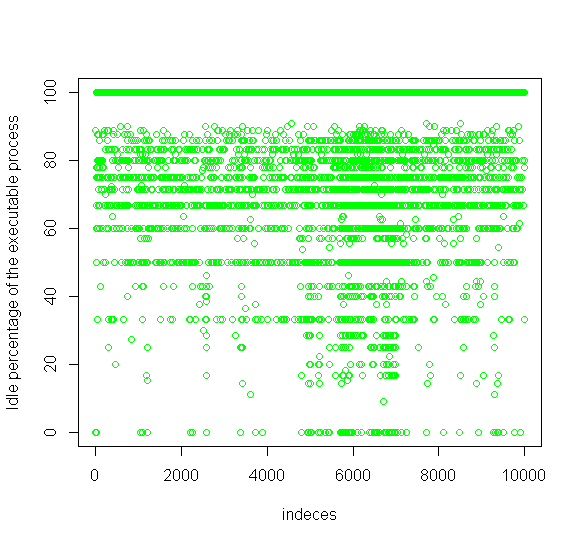
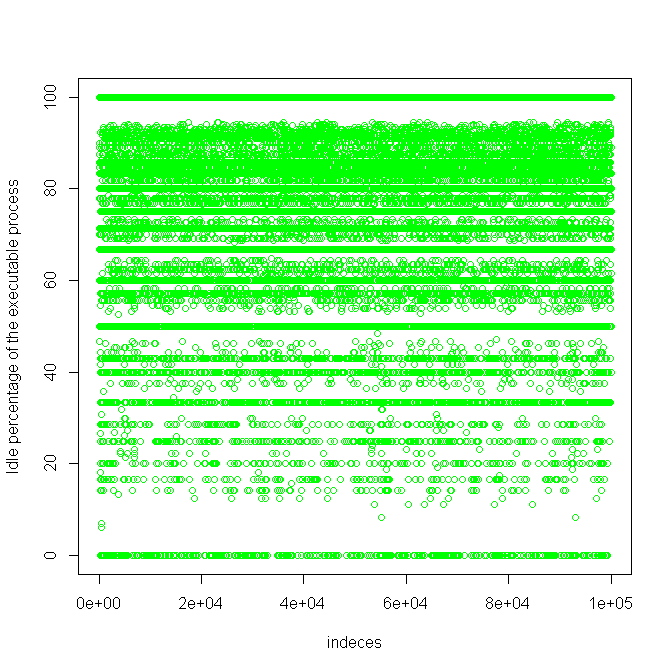
Add files via upload

diff --git a/LaTeX code/main.tex b/LaTeX code/main.tex
@@ -205,19 +205,19 @@
 \newpage
 
 \section{Υπολογιστική ισχύς.}
-Κατά την εκτέλεση του πειράματος παρατηρήθηκε και η συμπεριφορά του προγράμματα αναφορικά με την υπολογιστική ισχύ που καταναλώνει.
+Κατά την εκτέλεση του πειράματος παρατηρήθηκε και η συμπεριφορά του προγράμματα αναφορικά με την υπολογιστική ισχύ που καταναλώνει. Παρουσιαζονται τα αποτελέσματα για την εκτέλεση της διεργασίας \textlatin{\textit{advanced}}
 
 \justify
-Για την παρακολούθηση του προγράμματος κατά τη διάρκεια εκτέλεσης χρησιμοποιήθηκε η εντολή \textlatin{\textbf{top}}.\cite{manual} Τα στοιχεία που ήταν σημαντικά για την παρακολούθηση της διαδικασίας εκτέλεσης ήταν η συγκεκριμένα, για το λόγο αυτό χρησιμοποιήθηκε η ακόλουθη εντολή για την εξαγωγή των αποτελεσμάτων σε μορφή αρχείου ώστε να επεξεργαστούν μετά τα αποτελέσματα κατάλληλα.
+Για την παρακολούθηση του προγράμματος κατά τη διάρκεια εκτέλεσης χρησιμοποιήθηκε η εντολή \textlatin{\textbf{top}}.\cite{manual}. Η εντολή αυτή δίνει πληθώρα διάφορων πληροφοριών, ωστόσο μόνο μερικά στοιχεία ήταν αρκετά για την απαιτούμενη μέτρηση. Για το λόγο αυτό χρησιμοποιήθηκε η ακόλουθη εντολή για την εξαγωγή των αποτελεσμάτων σε μορφή αρχείου ώστε να επεξεργαστούν μετά, τα αποτελέσματα κατάλληλα.
 \begin{itemize}
-    \item \textlatin{\textit{top -b -d 0.01 -p <pid> -n 10000 | awk '/Cpu/||/<user>/ {print}'      > log.txt}}
+    \item \textlatin{\textit{top -b -d 0.01 -p <pid> -n 100000 | awk '/Cpu/||/<user>/ {print}'      > log.txt}}
 \end{itemize}
 Όπου ύστερα από την παράμετρο \textlatin{\textit{-d}} ακολουθεί το χρονικό διάστημα παρακολούθησης της διεργασίας σε δευτερόλεπτα, \textlatin{\textit{pid}} ο αριθμός της επιθυμητής διεργασίας για παρακολούθηση και \textlatin{\textit{-n}} ο αριθμός των μετρήσεων που θα πραγματοποιήσει η εντολή. Το υπόλοιπο της εντολής χρησιμοποιείται για την εξαγωγή των αποτελεσμάτων σε αρχείο.
 
 \justify 
-Η εκτέλεση της παραπάνω εντολής ισοδυναμεί με 10000 μετρήσεις χρονικών διαστημάτων 0.01 δευτερολέπτων. Δηλαδή, αποτελούν ένα ενδεικτικό δείγμα 100 δευτερολέπτων εκτέλεσης. Τα αποτελέσματα αυτά αναλύθηκαν με τη χρήση του \textlatin{script} \textlatin{\textbf{regex.R}} σε γλώσσα \textlatin{\textit{R}}. 
+Η εκτέλεση της παραπάνω εντολής ισοδυναμεί με 100000 μετρήσεις χρονικών διαστημάτων 0.01 δευτερολέπτων. Δηλαδή, αποτελούν ένα ενδεικτικό δείγμα 1000 δευτερολέπτων εκτέλεσης. Τα αποτελέσματα αυτά αναλύθηκαν με τη χρήση του \textlatin{script} \textlatin{\textbf{regex.R}} σε γλώσσα \textlatin{\textit{R}}. 
 \justify
-Στα αποτελέσματα που προέκυψαν η διεργασία αναγνωρίστηκε μόλις \textbf{4} φορές σε κατάσταση \textlatin{\textbf{Running}} και \textbf{9994} φορές σε λειτουργία \textlatin{\textbf{Sleeping}}. 
+Στα αποτελέσματα που προέκυψαν η διεργασία αναγνωρίστηκε μόλις \textbf{706} φορές σε κατάσταση \textlatin{\textbf{Running}} και \textbf{99294} φορές σε λειτουργία \textlatin{\textbf{Sleeping}}. 
 
 \justify
 Παρατίθενται τα διαγράμματα ποσοστών κατάστασης \textlatin{idle} της διεργασίας ανά μέτρηση, όπως αυτά προέκυψαν από τις παραπάνω μετρήσεις και την ανάλυση. 
